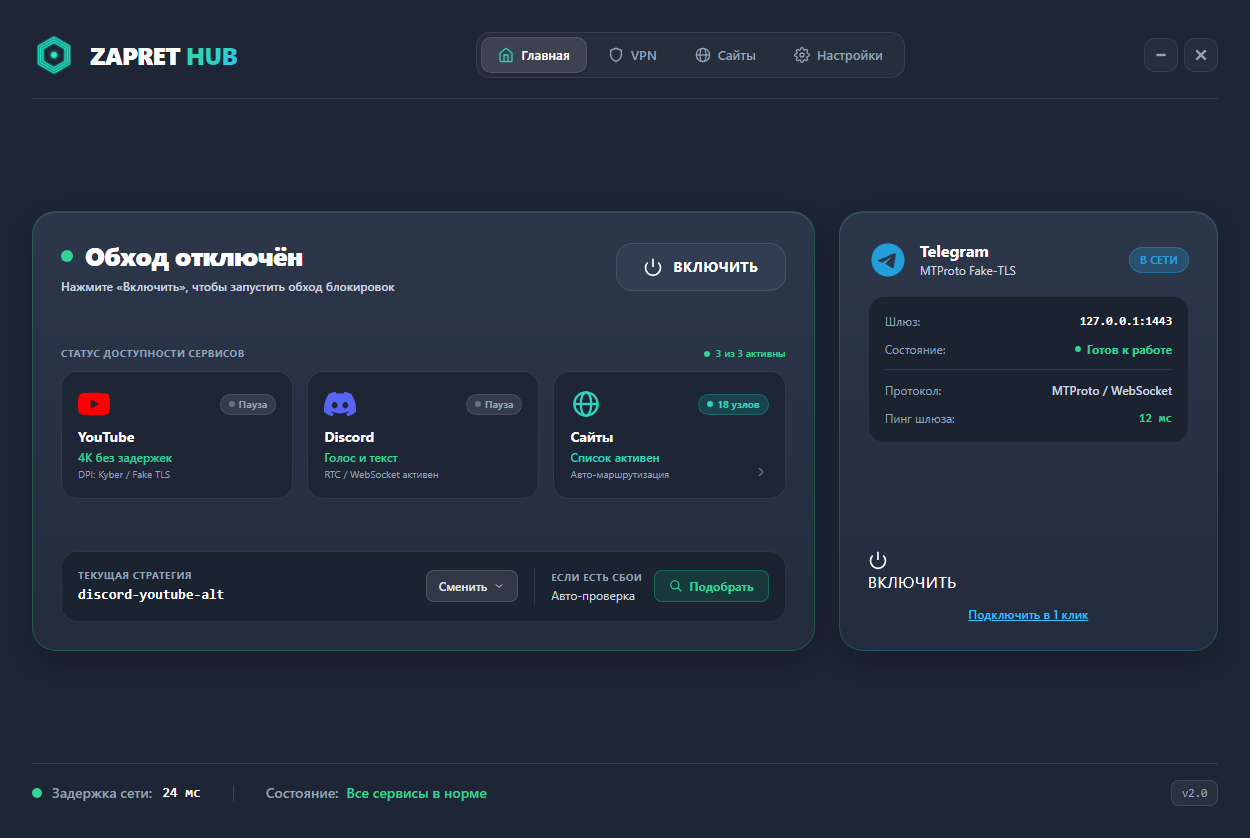
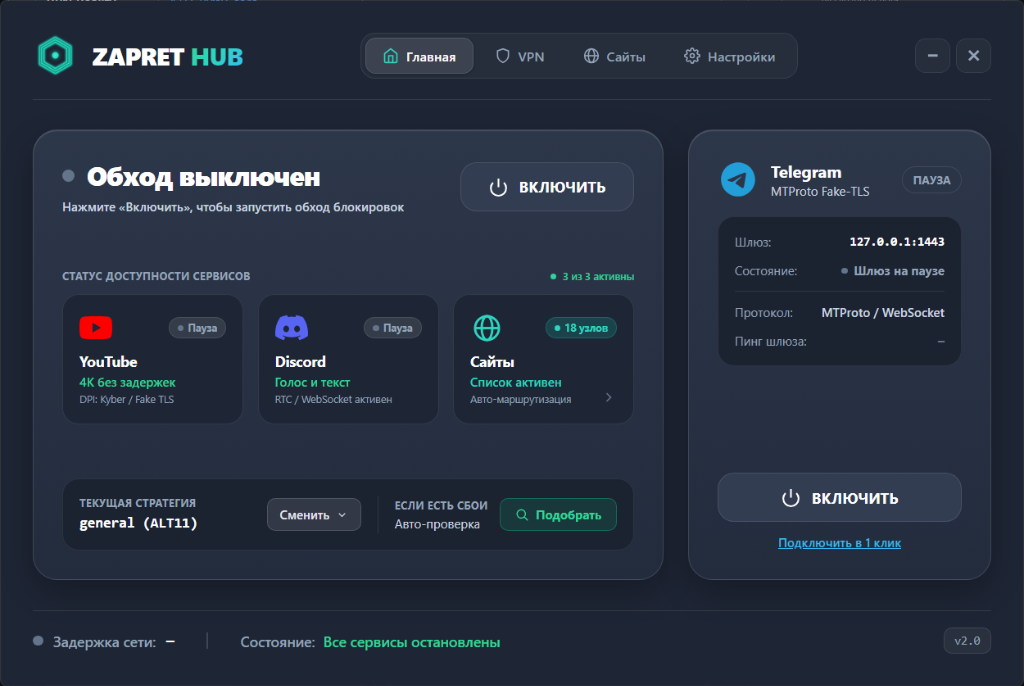
Fix TG proxy version polling, add separate autostart toggles, update screenshots and docs

diff --git a/src/index.html b/src/index.html
@@ -717,19 +717,31 @@
 
                   <div class="h-[1px] bg-white/5"></div>
 
-                  <!-- Switch 2: Автозагрузка с Windows -->
+                  <!-- Switch 2a: Автозапуск обхода DPI -->
                   <div class="flex items-center justify-between">
                     <div>
-                      <span class="text-xs font-medium text-slate-200 block">Автозагрузка с Windows</span>
-                      <span class="text-[10px] text-slate-400 block leading-tight">Запуск Zapret HUB при входе в систему</span>
+                      <span class="text-xs font-medium text-slate-200 block">Автозапуск обхода DPI</span>
+                      <span class="text-[10px] text-slate-400 block leading-tight">Запускать обход блокировок при входе в систему</span>
                     </div>
                     <label class="relative inline-flex items-center cursor-pointer flex-shrink-0">
-                      <input type="checkbox" id="toggle-autostart" checked onchange="toggleSetting('autostart', this.checked)" class="sr-only peer">
+                      <input type="checkbox" id="toggle-autostart-zapret" onchange="toggleSetting('autostartZapret', this.checked)" class="sr-only peer">
                       <div class="w-9 h-5 bg-[#1b2230] border border-white/15 peer-focus:outline-none rounded-full peer peer-checked:after:translate-x-full peer-checked:after:border-white after:content-[''] after:absolute after:top-[2px] after:left-[2px] after:bg-white after:rounded-full after:h-4 after:w-4 after:transition-all peer-checked:bg-emerald-600"></div>
                     </label>
                   </div>
 
                   <div class="h-[1px] bg-white/5"></div>
+
+                  <!-- Switch 2b: Автозапуск Telegram прокси -->
+                  <div class="flex items-center justify-between">
+                    <div>
+                      <span class="text-xs font-medium text-slate-200 block">Автозапуск Telegram прокси</span>
+                      <span class="text-[10px] text-slate-400 block leading-tight">Запускать Telegram прокси при входе в систему</span>
+                    </div>
+                    <label class="relative inline-flex items-center cursor-pointer flex-shrink-0">
+                      <input type="checkbox" id="toggle-autostart-tg" onchange="toggleSetting('autostartTg', this.checked)" class="sr-only peer">
+                      <div class="w-9 h-5 bg-[#1b2230] border border-white/15 peer-focus:outline-none rounded-full peer peer-checked:after:translate-x-full peer-checked:after:border-white after:content-[''] after:absolute after:top-[2px] after:left-[2px] after:bg-white after:rounded-full after:h-4 after:w-4 after:transition-all peer-checked:bg-emerald-600"></div>
+                    </label>
+                  </div>
 
                   <!-- Switch 3: Авто-проверка обновлений -->
                   <div class="flex items-center justify-between">

diff --git a/src/scripts/app.js b/src/scripts/app.js
@@ -46,7 +46,8 @@ let state = {
   settings: {
     closeBehavior: 'tray', // 'ask' | 'tray' | 'quit'
     startMinimized: false,
-    autostart: false,
+    autostartZapret: false,
+    autostartTg: false,
     autoUpdates: true,
     ipsetMode: 'loaded' // 'loaded' | 'none' | 'any'
   }
@@ -1326,9 +1327,11 @@ async function toggleSetting(key, checked) {
     if (key === 'startMinimized') {
       state.settings.startMinimized = checked;
       await api('setStartMinimized', checked);
-    } else if (key === 'autostart') {
-      state.settings.autostart = checked;
+    } else if (key === 'autostartZapret') {
+      state.settings.autostartZapret = checked;
       await api('setAutostartZapret', checked);
+    } else if (key === 'autostartTg') {
+      state.settings.autostartTg = checked;
       await api('setAutostartTg', checked);
     } else if (key === 'autoUpdates') {
       state.settings.autoUpdates = checked;
@@ -1948,8 +1951,12 @@ document.addEventListener('DOMContentLoaded', async () => {
         if (t) t.checked = settings.startMinimized;
       }
       if (typeof settings.autostartZapret === 'boolean') {
-        const t = $('#toggle-autostart');
+        const t = $('#toggle-autostart-zapret');
         if (t) t.checked = settings.autostartZapret;
+      }
+      if (typeof settings.autostartTgProxy === 'boolean') {
+        const t = $('#toggle-autostart-tg');
+        if (t) t.checked = settings.autostartTgProxy;
       }
       if (typeof settings.autoCheckUpdates === 'boolean') {
         const t = $('#toggle-auto-updates');

diff --git a/electron/services/tgProxyService.js b/electron/services/tgProxyService.js
@@ -173,15 +173,9 @@ class TgProxyService {
   }
 
   async getCurrentVersion() {
-    const exePath = this.getExePath();
-    if (!exePath || !fs.existsSync(exePath)) return '2.0.0';
-    try {
-      const { stdout } = await execAsync(`"${exePath}" --version`, { windowsHide: true, timeout: 3000 });
-      const match = stdout.match(/(\d+\.\d+\.\d+)/);
-      return match ? match[1] : '2.0.0';
-    } catch {
-      return '2.0.0';
-    }
+    if (this._cachedVersion) return this._cachedVersion;
+    this._cachedVersion = '2.0.0';
+    return this._cachedVersion;
   }
 
   async start(sendProgress) {

diff --git a/electron/main.js b/electron/main.js
@@ -962,9 +962,11 @@ function registerIpc() {
         startMinimized: Boolean(status.startMinimized),
         closeBehavior: status.closeBehavior,
         autostartZapret: Boolean(status.autostartZapretEnabled),
+        autostartTgProxy: Boolean(status.autostartTgProxyEnabled),
         autoCheckUpdates: zapret.config.autoCheckUpdates !== false
       };
     },
+
     'set-game-filter': (_, mode) => zapret.setGameFilter(mode),
     'set-autostart-zapret': async (_, enabled) => {
       const status = await zapret.setAutostartZapret(enabled);

diff --git a/README.md b/README.md
@@ -2,15 +2,15 @@
 
 **Графическая панель управления сетевым доступом для Windows.** Объединяет сразу три инструмента обхода ограничений в одном чистом, современном интерфейсе: локальный DPI-обход, встроенный прокси для Telegram и полноценный VPN на базе протокола VLESS Reality.
 
-| Компонент | Технология / Репозиторий | Назначение |
+| Компонент | Технология / База | Назначение |
 |---|---|---|
-| **Движок DPI** | [Flowseal/zapret-discord-youtube](https://github.com/Flowseal/zapret-discord-youtube) | Discord, YouTube и сайты без снижения скорости |
-| **Прокси Telegram** | [Flowseal/tg-ws-proxy](https://github.com/Flowseal/tg-ws-proxy) | Встроенный MTProto Fake-TLS шлюз для звонков и медиа |
+| **Движок DPI** | Собственный стек на базе [bol-van/zapret](https://github.com/bol-van/zapret) | Discord, YouTube и сайты без снижения скорости |
+| **Прокси Telegram** | **ZapretTgProxy** (собственный шлюз) | Встроенный MTProto Fake-TLS шлюз для звонков и медиа |
 | **VPN Reality** | [XTLS/Xray-core](https://github.com/XTLS/Xray-core) | VLESS Reality обход блокировок ТСПУ с авто-выбором ноды |
 
-**Автор оболочки:** [xRAYNERx](https://github.com/xRAYNERx) · **Движки:** Flowseal, Bol-van, Project X
+**Разработка и оболочка:** [xRAYNERx](https://github.com/xRAYNERx) · **Технологии:** bol-van (winws/WinDivert), Project X (Xray)
 
-Zapret HUB является независимой графической оболочкой. Подробнее о сторонних компонентах — [THIRD_PARTY_NOTICES.md](THIRD_PARTY_NOTICES.md).
+Zapret HUB является независимой панелью управления. Подробнее о сторонних компонентах — [THIRD_PARTY_NOTICES.md](THIRD_PARTY_NOTICES.md).
 
 ---
 

diff --git a/THIRD_PARTY_NOTICES.md b/THIRD_PARTY_NOTICES.md
@@ -2,24 +2,19 @@
 
 Zapret HUB — обёртка (GUI) вокруг открытых инструментов обхода DPI. Ниже — что используется и на каких условиях.
 
-## Движок обхода (zapret-discord-youtube)
-
-- **Проект:** [Flowseal/zapret-discord-youtube](https://github.com/Flowseal/zapret-discord-youtube)
-- **Назначение:** `winws.exe`, стратегии `.bat`, списки доменов/IP
-- **Лицензия:** см. репозиторий upstream
-- **Примечание:** Zapret HUB не является официальным продуктом Flowseal
-
-## WinDivert
-
+## WinDivert & winws
 - **Проект:** [bol-van/zapret](https://github.com/bol-van/zapret) / WinDivert
-- **Назначение:** перехват и модификация сетевых пакетов (`WinDivert64.sys`, `WinDivert.dll`)
+- **Назначение:** перехват и модификация сетевых пакетов (`winws.exe`, `WinDivert64.sys`, `WinDivert.dll`)
 - **Лицензия:** см. upstream
 
-## Telegram WebSocket Proxy
+## Telegram Proxy (ZapretTgProxy)
+- **Проект:** Встроенный компонент Zapret HUB
+- **Назначение:** локальный шлюз MTProto / WebSocket Fake-TLS для Telegram
 
-- **Проект:** [Flowseal/tg-ws-proxy](https://github.com/Flowseal/tg-ws-proxy)
-- **Назначение:** локальный SOCKS5-прокси для Telegram
-- **Лицензия:** см. репозиторий upstream
+## Xray-core (VPN VLESS Reality)
+- **Проект:** [XTLS/Xray-core](https://github.com/XTLS/Xray-core)
+- **Назначение:** ядро VPN-модуля VLESS Reality
+- **Лицензия:** Mozilla Public License 2.0
 
 ## Electron
 
